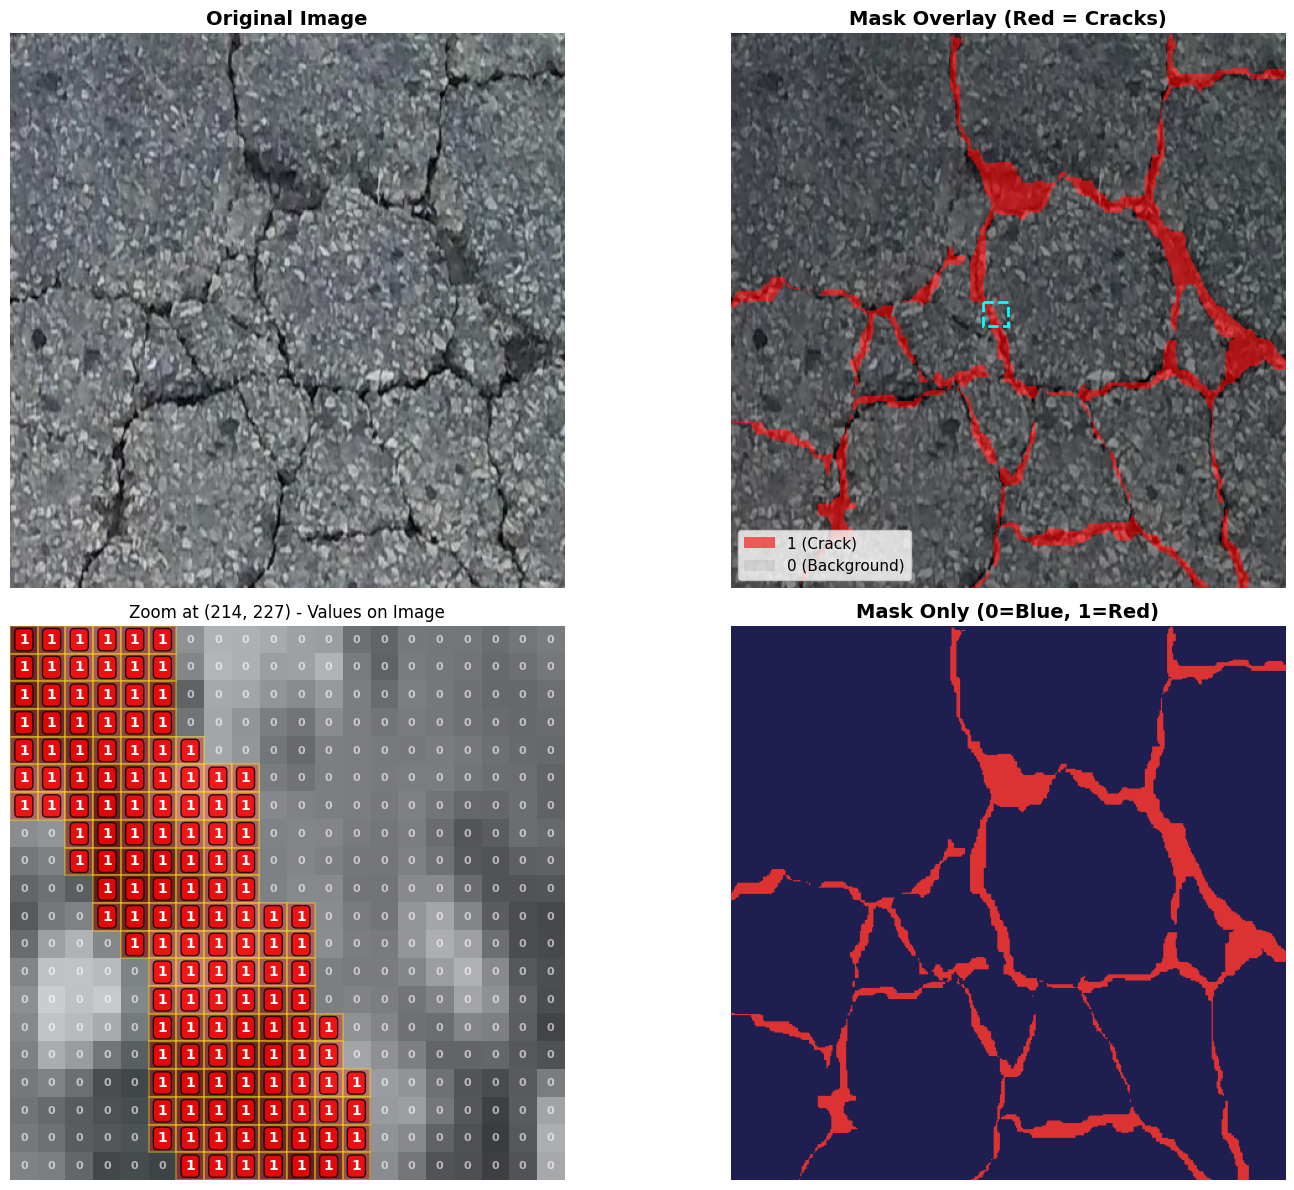
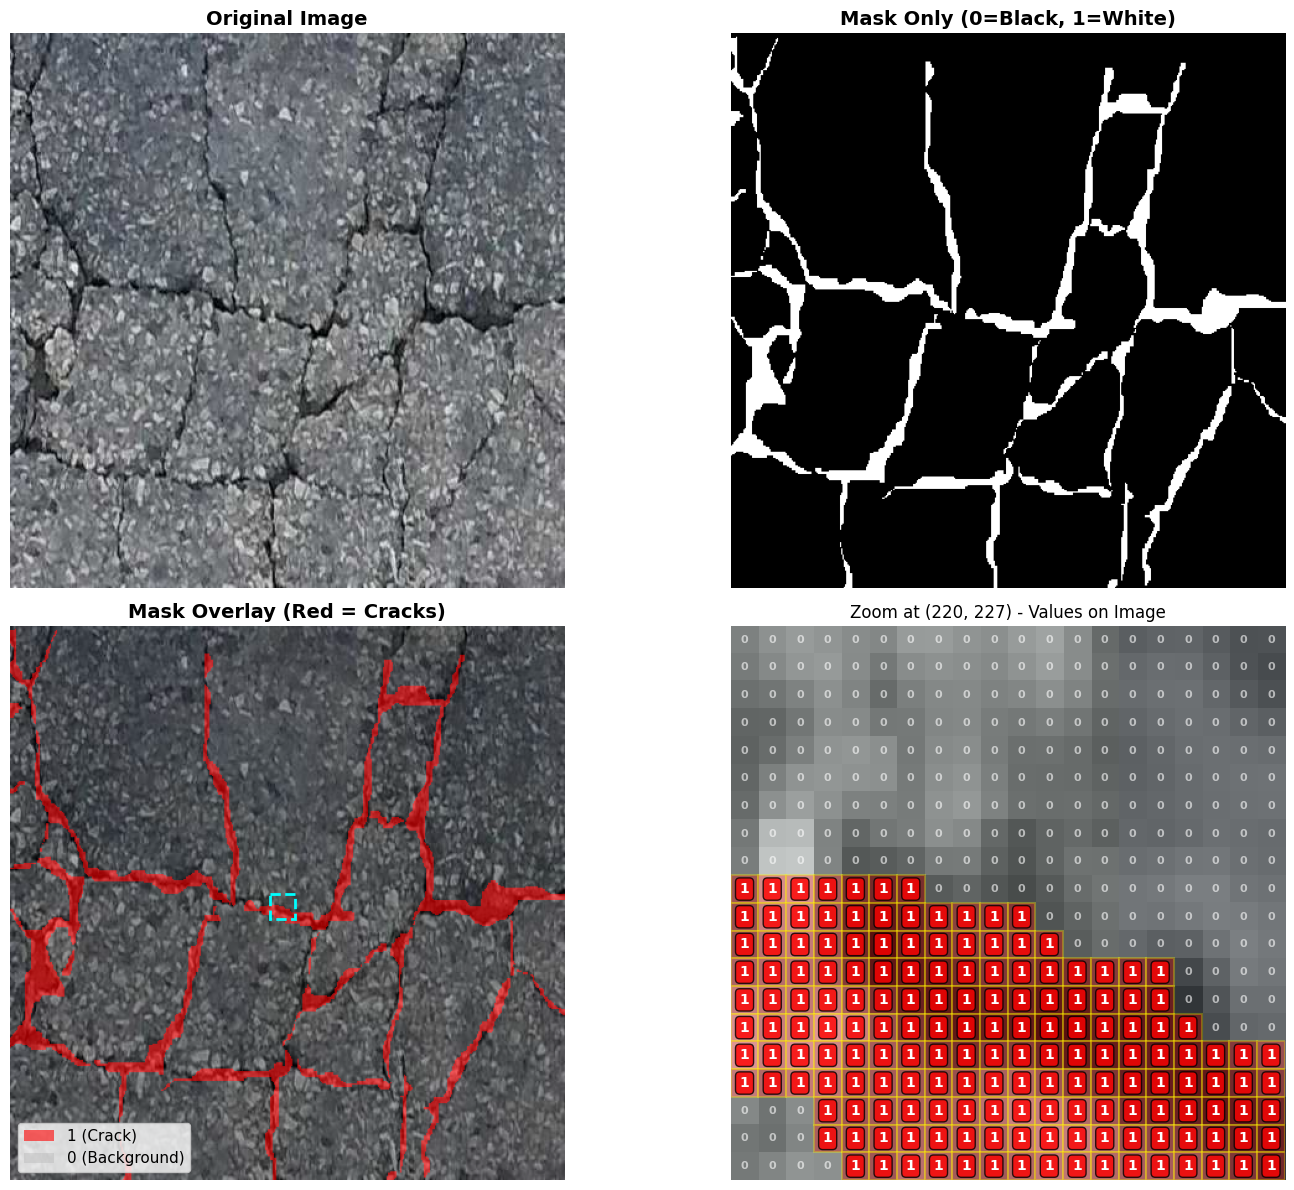
finished 3.2 (need more check)

diff --git a/src/thesis/chapters/ch3_methodology.tex b/src/thesis/chapters/ch3_methodology.tex
@@ -11,8 +11,6 @@
     \item \textbf{Validate the pipeline on a custom, high-resolution self-collected UAV dataset} to verify its real-world robustness.
 \end{itemize}
 
-\hs \hl{This research represents the culmination of a year-four internship as an \textbf{AI Engineer} at \textbf{AI Farm Robotics} (Phnom Penh, Cambodia), conducted under the department of \textbf{Applied Mathematics and Statistics (AMS)} under the supervision of H.E. Dr. \textbf{LI N Mongkolsery}, the academic advisorship of \textbf{PHALLY Rathavann}, and the industry supervision of \textbf{KHON Yin Sakal}. By bridging theoretical mathematical modeling with practical robotics deployment, this methodology establishes a standardized, reproducible technical route for automated infrastructure health monitoring.}
-
 \section{Data Acquisition and Preparation}
 
 \hs To train a robust and generalizable deep learning model, a diverse collection of data is required. This section details the curation of public benchmarks, the collection protocol of our custom UAV dataset, and the preprocessing steps established to unify these disparate sources.
@@ -48,26 +46,17 @@
 
 \footnotetext[1]{Retrieved from: \url{https://github.com/Cv-learning/Crack-Dataset}.}
 
-\subsection{Self-Collected UAV Dataset}
+\subsection{Planned Self-Collected UAV Dataset}
 
-\hs To complement the publicly available datasets with real-world aerial imagery, a custom UAV-based crack dataset was proposed for collection by the Drone Operations Department at AI Farm Robotics. This dataset would serve to validate the generalisability of the proposed framework on genuine high-resolution infrastructure inspection imagery, addressing the domain gap between close-up public datasets and actual UAV capture conditions.
+\hs To complement the public benchmarks with real-world aerial imagery, a custom UAV-based crack dataset was proposed for collection by the Drone Operations Department at AI Farm Robotics. The intended acquisition protocol specified flights at an altitude of 10–15 m using a high-resolution RGB sensor, targeting building facades and rooftops in Phnom Penh, with annotations to be performed manually by trained technicians.
 
-\hs However, at the time of writing, the status of this data collection effort, including whether acquisition has commenced or completed, was not confirmed by the Drone Operations Department. Consequently, the dataset and its associated metadata were not available for integration into the current experimental pipeline.
+\hs However, at the time of this internship (July–September 2026), the data collection and annotation pipeline had not been completed by the Drone Operations Department. Consequently, this dataset was not available for integration into the training, validation, or testing phases of the current study.
 
-\hs The incorporation of this self-collected dataset is therefore deferred to future collaborative work between the Drone Operations Department and the AI Engineering team. Once collected and properly annotated, this dataset will provide a valuable testbed for evaluating model performance on real-world aerial inspection scenarios. For the present study, all experiments are conducted exclusively using the publicly available datasets described in Section~\ref{subsec:public-datasets}.
+\hs The absence of this dataset does not invalidate the experimental framework, as the aggregated public datasets (Section~\ref{subsec:public-datasets}) provide a sufficiently diverse and challenging benchmark covering multiple surface types, lighting conditions, and crack morphologies. Validation on genuine UAV-captured imagery remains an important direction for future work, contingent on the completion of the data collection effort by the drone team.
 
 \subsection{Annotation Unification and Standardization}
 
-\hs To make all training data compatible, the annotation formats from different sources were converted into one common representation.
-
-\begin{figure}[htbp]
-    \centering
-    \includegraphics[width=\linewidth]{figures/cracks/crack-map.png}
-    \caption{\textit{Binary pixel-level annotation used for model training and evaluation.}}
-    \label{fig:crack_map}
-\end{figure}
-
-\hs Each ground-truth label was transformed into a binary pixel mask, where every pixel is assigned either a crack or background value. Mathematically, this is represented as a single-channel map $M(x, y) \in \{0, 1\}$ \cite{liu-2019}:
+\hs To make all training data compatible, the annotation formats from different sources were converted into a common binary pixel representation. Each ground-truth label was transformed into a single-channel mask, where the mathematical definition is:
 
 \begin{equation}
     M(x, y) = \begin{cases}
@@ -76,56 +65,70 @@
     \end{cases}
 \end{equation}
 
-\hs In practice, these masks are stored as simple, lossless single-channel PNG files. A pixel value of 255 (white) represents a crack, while 0 (black) represents the background. This standardization makes the data consistent and easy to process across the entire training and evaluation pipeline.
+\hs For practical storage, these binary masks were saved as 8-bit single-channel PNG files. In this format, a pixel value of \textbf{255 (white)} represents a crack, corresponding to the mathematical value $1$, while a pixel value of \textbf{0 (black)} represents the background, corresponding to the mathematical value $0$. During data loading, the pixel values are normalized by dividing by 255 to recover the $\{0,1\}$ representation used for model training and loss computation. This dual representation, mathematical $\{0,1\}$ for computation and $\{0,255\}$ for storage, is standard practice in image segmentation and ensures compatibility with both deep learning frameworks and standard image I/O libraries.
+
+\begin{figure}[htbp]
+    \centering
+    \includegraphics[width=\linewidth]{figures/cracks/crack-map.png}
+    \caption{\textit{Binary pixel-level annotation used for model training and evaluation.}}
+    \label{fig:crack_map}
+\end{figure}
+
+\hs This unified annotation scheme ensures consistent processing across all datasets. The binary representation simplifies loss computation and metric calculation while preserving pixel-level spatial precision.
 
 \subsection{Patch Extraction and Sliding Window Strategy}
 
-\hs To accommodate images of varying resolutions within a unified training and inference pipeline, all source images and their corresponding binary masks were decomposed into fixed-size tiles of
-$512 \times 512$ pixels.
+\hs To accommodate images of varying resolutions within a unified training and inference pipeline, all source images and their corresponding binary masks were decomposed into fixed-size tiles of \(512 \times 512\) pixels.
 
-\textbf{Training Phase:} For images with original dimensions of \(448 \times 448\) pixels, symmetric zero-padding was applied to the boundaries to reach the target size of \(512 \times 512\) pixels. This padding ensures that the spatial aspect ratio is preserved without distorting the crack features, while standardizing all inputs to a uniform dimension for batch processing. The padding strategy is mathematically defined as:
+\textbf{Training Phase}
 
-\begin{equation}
-    \text{Pad}_{\text{left}} = \text{Pad}_{\text{right}} = \left\lceil \frac{512 - 448}{2} \right\rceil = 32 \text{ pixels}
-\end{equation}
+\hs All training images were sourced exclusively from the public crack datasets described in Section~\ref{subsec:public-datasets}. These images have a native resolution of \(448 \times 448\) pixels. To standardize inputs for batch processing, symmetric zero-padding was applied to the boundaries to reach the target size of \(512 \times 512\) pixels, as illustrated in Figure~\ref{fig:training_image_resize}. This padding ensures that the spatial aspect ratio is preserved without distorting the crack features.
 
-\begin{equation}
-    \text{Pad}_{\text{top}} = \text{Pad}_{\text{bottom}} = \left\lceil \frac{512 - 448}{2} \right\rceil = 32 \text{ pixels}
-\end{equation}
+\begin{figure}[htbp]
+    \centering
+    \includegraphics[width=\linewidth]{figures/cracks/image-resizing.png}
+    \caption{\textit{Padding for training images, showing the symmetric zero-padding applied to reach the target size of \(512 \times 512\) pixels.}}
+    \label{fig:training_image_resize}
+\end{figure}
 
-\textbf{Inference Phase:} For high-resolution inference, the sliding window utilized a step stride of 384 pixels, which corresponds to a 128-pixel overlap (or \(25\%\) overlap) in both the horizontal and vertical directions. This overlap is crucial to ensure that cracks located near tile boundaries are not truncated or lost during independent tile forward passes.
+\textbf{Inference Phase}
 
-The overlap is calculated as:
+\hs For high-resolution inference, the sliding window strategy was designed to process arbitrarily large images that exceed GPU memory limits. The window size was set to \(512 \times 512\) pixels with a stride of 384 pixels, corresponding to a 128-pixel overlap (25\%) in both horizontal and vertical directions.
 
-\begin{equation}
-    O_x = O_y = 512 - 384 = 128 \text{ pixels}
-\end{equation}
+\begin{figure}[htbp]
+    \centering
+    \includegraphics[width=\linewidth]{figures/cracks/inference-patching.png}
+    \caption{\textit{Sliding window for high-resolution inference, showing the overlap between adjacent patches.}}
+    \label{fig:inference_patching}
+\end{figure}
 
-\begin{equation}
-    \text{Overlap Ratio} = \frac{128}{512} \times 100\% = 25\%
-\end{equation}
+\hs This overlap ensures that cracks located near tile boundaries are not truncated or lost during independent tile forward passes.
+
+\hs \hl{The inference pipeline was validated on high-resolution test images of approximately 10 megapixels,} which were sourced from the public datasets' test split (where native resolutions exceeded \(512 \times 512\)) and used exclusively for evaluation. These images, while not reaching the gigapixel scale targeted for final deployment, were sufficiently large to demonstrate the effectiveness of the tile-based approach and the blended overlap merging strategy. The pipeline is architecturally scalable to gigapixel images, as the tile processing is independent of total image dimensions, requiring only sufficient disk storage and sequential processing.
+
+\hs \hl{If an input image's dimensions are not perfectly divisible by the stride, zero-padding is temporarily applied to the right and bottom boundaries. After the blended overlap merging reconstructs the full probability map, the padded regions are cropped back to the original image dimensions.}
 
 \begin{table}[h]
     \centering
-    \caption{Summary of patch extraction parameters}
+    \caption{Summary of patch extraction and sliding window parameters}
     \label{tab:patch_parameters}
     \renewcommand{\arraystretch}{1.1}
     \begin{tabular}{@{}l c@{}}
         \toprule
-        \textbf{Parameter}                 & \textbf{Value}            \\
+        \textbf{Parameter}                     & \textbf{Value}            \\
         \midrule
-        Original image size                & \(448 \times 448\) pixels \\
-        Patch size (training \& inference) & \(512 \times 512\) pixels \\
-        Padding per side                   & 32 pixels                 \\
-        Stride (inference)                 & 384 pixels                \\
-        Overlap                            & 128 pixels (\(25\%\))     \\
+        Training image size (before padding)   & \(448 \times 448\) pixels \\
+        Training patch size (after padding)    & \(512 \times 512\) pixels \\
+        Testing image size (before extraction) & <10 megapixels            \\
+        Inference patch size                   & \(512 \times 512\) pixels \\
+        Inference overlap                      & 128 pixels (\(25\%\))     \\
         \bottomrule
     \end{tabular}
 \end{table}
 
-\hs For high-resolution inference, the sliding window utilized a step stride of 384 pixels, which corresponds to a 128-pixel overlap (or 25\% overlap) in both the horizontal and vertical directions. This overlap is crucial to ensure that cracks located near tile boundaries are not truncated or lost during independent tile forward passes.
+\subsection{Dataset Splitting}
 
-\textbf{Dataset Splitting:} To ensure fair and unbiased evaluation, the entire set of 8,818 images was divided strictly at the image level into three disjoint subsets:
+\hs To ensure fair and unbiased evaluation, the entire set of 8,818 images was divided strictly at the image level into three disjoint subsets:
 
 \begin{table}[htbp]
     \centering
@@ -149,17 +152,56 @@ The overlap is calculated as:
 
 \hs By enforcing source-image level splitting, tiles from the same physical road section or lighting condition were prevented from appearing in both the training and evaluation splits, thereby ensuring the generalizability of the performance metrics.
 
-\textbf{Data Augmentation Strategy:} To improve model generalization and prevent overfitting on limited datasets, a series of augmentations was applied identically to both the RGB image and its corresponding binary mask during training:
+\subsection{Data Augmentation Strategy}
+
+\hs To improve model generalization and prevent overfitting on the limited training data, a series of augmentations was applied \hl{online} during training. Each augmentation was applied to both the RGB image and its corresponding binary mask to maintain spatial correspondence for geometric transforms.
+
+\hs The augmentation strategy varied slightly across model families due to differences in the underlying training frameworks. All augmentations were applied only to the training split; the validation and test splits were left unaltered.
+
+\textbf{For U-Net and SegFormer (SMP-based models):}
+
+\begin{table}[h]
+    \centering
+    \caption{Data augmentation parameters for SMP-based models (U-Net and SegFormer).}
+    \label{tab:augmentation_smp}
+    \renewcommand{\arraystretch}{1.25}
+    \small
+    \begin{tabular}{@{}l l c@{}}
+        \toprule
+        \textbf{Augmentation} & \textbf{Parameters}                                                     & \textbf{Probability} \\
+        \midrule
+        Horizontal Flip       & -                                                                       & 0.5                  \\
+        Vertical Flip         & -                                                                       & 0.5                  \\
+        Rotation              & \(\pm 15^\circ\)                                                        & 0.5                  \\
+        Shift-Scale-Rotate    & scale \(\pm 10\%\), rotation \(\pm 15^\circ\)                           & 0.5                  \\
+        Brightness-Contrast   & brightness \(\pm 20\%\), contrast \(\pm 20\%\)                          & 0.5                  \\
+        Color Jitter          & brightness \(\pm 10\%\), contrast \(\pm 10\%\), saturation \(\pm 10\%\) & 0.5                  \\
+        Random Shadow         & shadow\_roi = (0, 0.5, 1, 1)                                            & 0.5                  \\
+        Gauss Noise           & var\_limit = (10, 50)                                                   & 0.2                  \\
+        Motion Blur           & blur\_limit = 5                                                         & 0.2                  \\
+        \bottomrule
+    \end{tabular}
+\end{table}
+
+\hs After augmentation, images were normalized using \textbf{ImageNet} mean [0.485, 0.456, 0.406] and standard deviation [0.229, 0.224, 0.225] as required by the pre-trained backbones.
+
+\textbf{For YOLO (Ultralytics framework):}
+
+\hs YOLO employs the native augmentation pipeline integrated within the Ultralytics framework. The default augmentations were used with the following parameters:
 
 \begin{itemize}
-    \item \textbf{Random Rotations (0--45$^\circ$):} Simulates UAV attitude and yaw variations.
-    \item \textbf{Horizontal and Vertical Flips:} Enhances spatial and direction invariance.
-    \item \textbf{Gaussian Blur ($\sigma \le 1.5$):} Simulates slight focus variations, camera vibration, and motion blur during flight.
+    \item \textbf{HSV Augmentation}: Hue ($\pm$0.015), Saturation ($\pm$0.7), Value ($\pm$0.4)
+    \item \textbf{Geometric}: Horizontal flip (p=0.5), Scale ($\pm$0.5)
+    \item \textbf{Albumentations} (applied with lower probability): Blur, Median Blur, Grayscale conversion, CLAHE (Contrast Limited Adaptive Histogram Equalization)
 \end{itemize}
+
+\hs These augmentations are automatically applied during training and are optimized for the YOLO architecture's single-stage detection pipeline. No vertical flips, rotations, or photometric augmentations were applied to YOLO training as these are not included in the default Ultralytics segmentation augmentation configuration.
 
 \section{Model Development and Selection}
 
 \hs To empirically evaluate the trade-offs between accuracy, inference speed, and spatial context-awareness, three distinct families of state-of-the-art segmentation architectures were selected and evaluated.
+
+\hs
 
 \subsection{Baseline Architectures}
 

diff --git a/src/thesis/main.tex b/src/thesis/main.tex
@@ -41,7 +41,6 @@
 
 
 \pagenumbering{arabic}
-% \input{chapters/ch0_thesis_placeholder}
 % \include{chapters/ch1_introduction}
 % \include{chapters/ch2_literature_review}
 \include{chapters/ch3_methodology}
